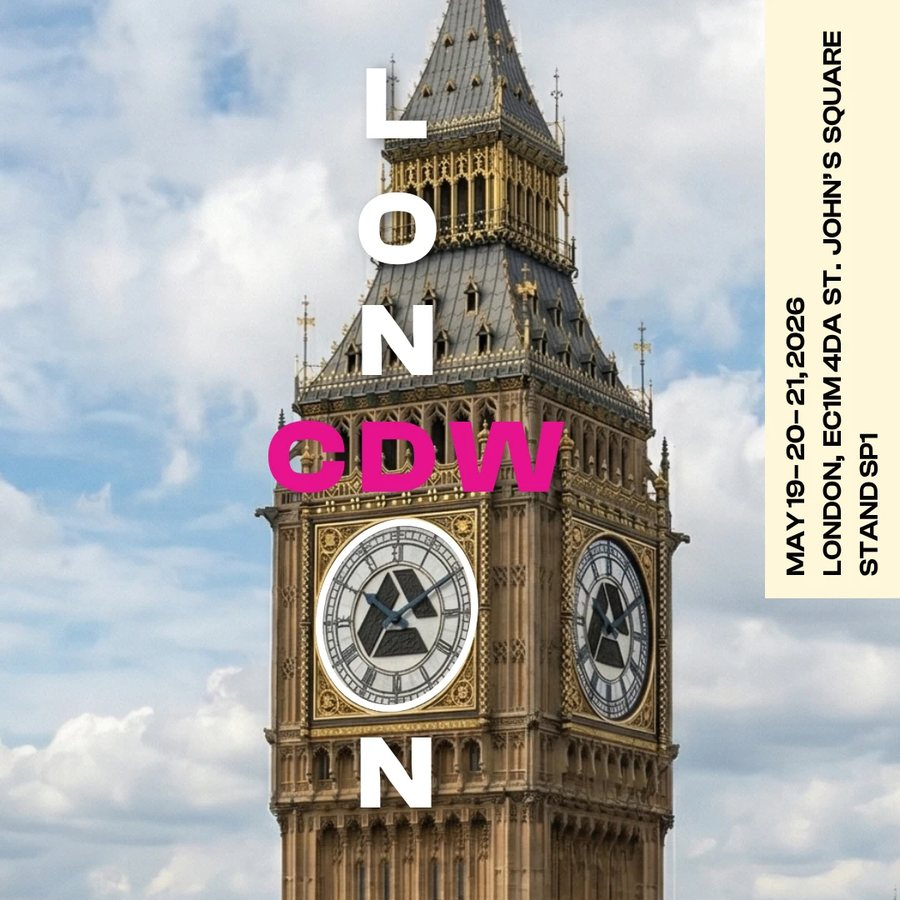
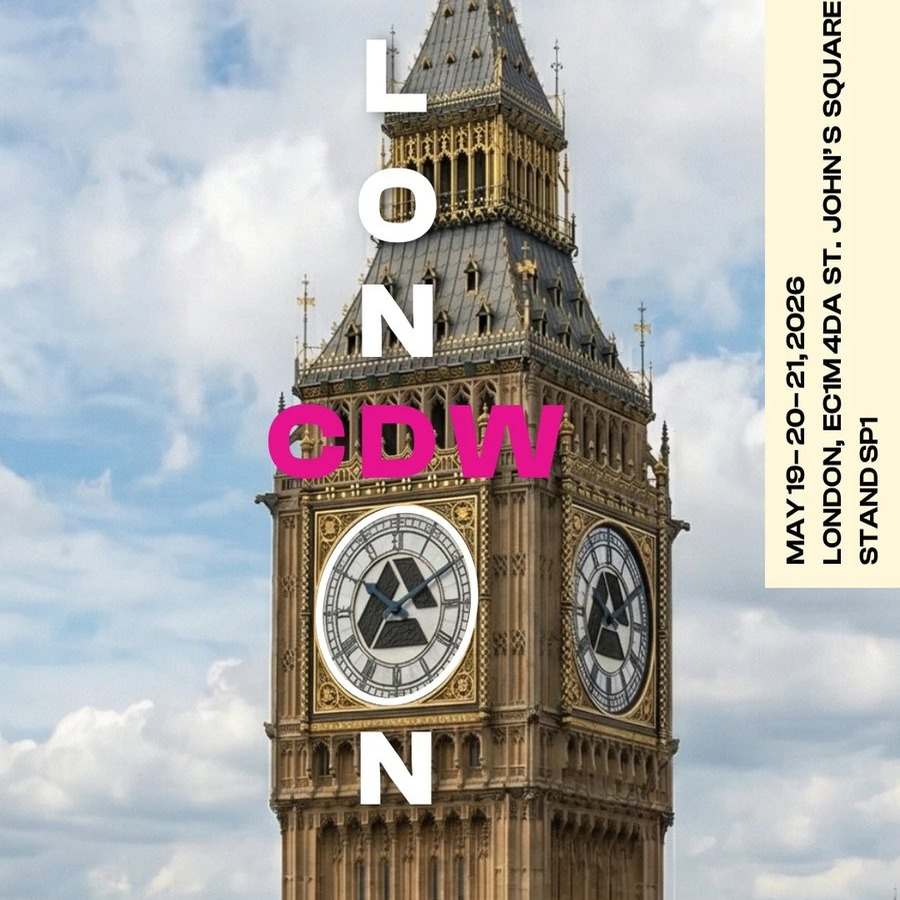
Re-translate Stay Tuned/Last Updates with content-aware sizing, compact the events map, fix London event image
- Stay Tuned and Last Updates headings are translated again, but a
  data-i18n-autofit hook now scales each word's font-size down based on
  how much longer the translation is than the English original, and the
  newsletter heading's container width no longer shrinks proportionally
  with font-size (was ch-based, canceling out the scaling) - translations
  now stay horizontal and wrap to at most two lines in every language
- Wired the previously-untranslated "Discover All the News" button under
  Last Updates
- Event map is now capped at 880px and centered, instead of spanning the
  full content width
- Cropped a blurred top strip baked into the London event image (the only
  one of the three affected) so it renders sharp like Paris and Riyadh

diff --git a/assets/js/i18n.js b/assets/js/i18n.js
@@ -37,7 +37,7 @@ EN: {
 "contract.body":"We work alongside architecture firms, general contractors, and companies on turnkey projects — from space planning to supply and installation, coordinating executive, operative, meeting rooms, and acoustics into a single vision.",
 "cta.discoverProjects":"Discover Our Projects",
 "news.word1":"News","news.word2":"and Events","news.discoverAll":"Discover All the Events",
-"lastUpdates.word1":"Last","lastUpdates.word2":"Updates",
+"lastUpdates.word1":"Last","lastUpdates.word2":"Updates","lastUpdates.discoverAll":"Discover All the News",
 "newsletter.word1":"Stay","newsletter.word2":"Tuned",
 "newsletter.body":"News, collections, and projects from Codutti straight to your inbox.",
 "newsletter.subscribe":"Subscribe to the Newsletter",
@@ -81,7 +81,7 @@ IT: {
 "contract.body":"Lavoriamo al fianco di studi di architettura, general contractor e aziende su progetti chiavi in mano — dalla progettazione degli spazi alla fornitura e installazione, coordinando executive, operative, sale riunioni e acustica in un'unica visione.",
 "cta.discoverProjects":"Scopri i Nostri Progetti",
 "news.word1":"News","news.word2":"ed Eventi","news.discoverAll":"Scopri Tutti gli Eventi",
-"lastUpdates.word1":"Ultimi","lastUpdates.word2":"Aggiornamenti",
+"lastUpdates.word1":"Ultimi","lastUpdates.word2":"Aggiornamenti","lastUpdates.discoverAll":"Scopri Tutte le Novità",
 "newsletter.word1":"Resta","newsletter.word2":"Aggiornato",
 "newsletter.body":"News, collezioni e progetti Codutti direttamente nella tua casella di posta.",
 "newsletter.subscribe":"Iscriviti alla Newsletter",
@@ -125,7 +125,7 @@ FR: {
 "contract.body":"Nous travaillons aux côtés de cabinets d'architecture, d'entreprises générales et de sociétés sur des projets clés en main — de la planification des espaces à la fourniture et à l'installation, en coordonnant executive, operative, salles de réunion et acoustique en une seule vision.",
 "cta.discoverProjects":"Découvrez Nos Projets",
 "news.word1":"Actualités","news.word2":"et Événements","news.discoverAll":"Découvrir Tous les Événements",
-"lastUpdates.word1":"Dernières","lastUpdates.word2":"Actualités",
+"lastUpdates.word1":"Dernières","lastUpdates.word2":"Actualités","lastUpdates.discoverAll":"Découvrir Toutes les Actualités",
 "newsletter.word1":"Restez","newsletter.word2":"Informé",
 "newsletter.body":"Actualités, collections et projets Codutti directement dans votre boîte mail.",
 "newsletter.subscribe":"S'abonner à la Newsletter",
@@ -169,7 +169,7 @@ DE: {
 "contract.body":"Wir arbeiten gemeinsam mit Architekturbüros, Generalunternehmern und Unternehmen an schlüsselfertigen Projekten — von der Raumplanung über Lieferung und Installation bis zur Koordination von Executive-, Operative-, Besprechungs- und Akustikbereichen in einer einzigen Vision.",
 "cta.discoverProjects":"Entdecken Sie Unsere Projekte",
 "news.word1":"Neuigkeiten","news.word2":"und Veranstaltungen","news.discoverAll":"Alle Veranstaltungen Ansehen",
-"lastUpdates.word1":"Neueste","lastUpdates.word2":"Beiträge",
+"lastUpdates.word1":"Neueste","lastUpdates.word2":"Beiträge","lastUpdates.discoverAll":"Alle Neuigkeiten Ansehen",
 "newsletter.word1":"Bleiben","newsletter.word2":"Sie Informiert",
 "newsletter.body":"Neuigkeiten, Kollektionen und Projekte von Codutti direkt in Ihr Postfach.",
 "newsletter.subscribe":"Newsletter Abonnieren",
@@ -213,7 +213,7 @@ SP: {
 "contract.body":"Trabajamos junto a estudios de arquitectura, contratistas generales y empresas en proyectos llave en mano — desde la planificación de espacios hasta el suministro e instalación, coordinando executive, operative, salas de reuniones y acústica en una sola visión.",
 "cta.discoverProjects":"Descubre Nuestros Proyectos",
 "news.word1":"Noticias","news.word2":"y Eventos","news.discoverAll":"Descubre Todos los Eventos",
-"lastUpdates.word1":"Últimas","lastUpdates.word2":"Novedades",
+"lastUpdates.word1":"Últimas","lastUpdates.word2":"Novedades","lastUpdates.discoverAll":"Descubre Todas las Novedades",
 "newsletter.word1":"Mantente","newsletter.word2":"Informado",
 "newsletter.body":"Noticias, colecciones y proyectos de Codutti directamente en tu correo.",
 "newsletter.subscribe":"Suscribirse al Newsletter",
@@ -257,7 +257,7 @@ RU: {
 "contract.body":"Мы работаем совместно с архитектурными бюро, генеральными подрядчиками и компаниями над проектами «под ключ» — от планировки пространства до поставки и монтажа, объединяя решения Executive, Operative, переговорные зоны и акустику в единую концепцию.",
 "cta.discoverProjects":"Узнать о Наших Проектах",
 "news.word1":"Новости","news.word2":"и события","news.discoverAll":"Смотреть Все События",
-"lastUpdates.word1":"Последние","lastUpdates.word2":"Новости",
+"lastUpdates.word1":"Последние","lastUpdates.word2":"Новости","lastUpdates.discoverAll":"Смотреть Все Новости",
 "newsletter.word1":"Будьте","newsletter.word2":"в Курсе",
 "newsletter.body":"Новости, коллекции и проекты Codutti прямо в вашей почте.",
 "newsletter.subscribe":"Подписаться на Рассылку",
@@ -301,7 +301,7 @@ AR: {
 "contract.body":"نعمل جنبًا إلى جنب مع مكاتب الهندسة المعمارية والمقاولين العامين والشركات في مشاريع متكاملة التسليم — من تخطيط المساحات إلى التوريد والتركيب، مع تنسيق حلول Executive وOperative وقاعات الاجتماعات والصوتيات ضمن رؤية واحدة موحدة.",
 "cta.discoverProjects":"اكتشف مشاريعنا",
 "news.word1":"الأخبار","news.word2":"والفعاليات","news.discoverAll":"اكتشف جميع الفعاليات",
-"lastUpdates.word1":"آخر","lastUpdates.word2":"التحديثات",
+"lastUpdates.word1":"آخر","lastUpdates.word2":"التحديثات","lastUpdates.discoverAll":"اكتشف جميع الأخبار",
 "newsletter.word1":"ابقَ","newsletter.word2":"على اطلاع",
 "newsletter.body":"أحدث الأخبار والمجموعات ومشاريع Codutti مباشرة إلى بريدك الإلكتروني.",
 "newsletter.subscribe":"اشترك في النشرة الإخبارية",
@@ -345,7 +345,7 @@ CH: {
 "contract.body":"我们与建筑设计公司、总承包商及企业携手合作,承接交钥匙项目——从空间规划到供货与安装,将行政、运营、会议室与声学方案协调统一为一体化愿景。",
 "cta.discoverProjects":"探索我们的项目",
 "news.word1":"新闻","news.word2":"与活动","news.discoverAll":"查看所有活动",
-"lastUpdates.word1":"最新","lastUpdates.word2":"动态",
+"lastUpdates.word1":"最新","lastUpdates.word2":"动态","lastUpdates.discoverAll":"查看所有新闻",
 "newsletter.word1":"保持","newsletter.word2":"关注",
 "newsletter.body":"Codutti 的最新消息、系列与项目,直接送达您的邮箱。",
 "newsletter.subscribe":"订阅新闻通讯",
@@ -389,7 +389,7 @@ JP: {
 "contract.body":"私たちは建築事務所、ゼネコン、企業とともにターンキープロジェクトに取り組んでいます——スペースプランニングから納品、設置に至るまで、エグゼクティブ、オペレーティブ、会議室、音響を一つのビジョンへと統合します。",
 "cta.discoverProjects":"私たちのプロジェクトを見る",
 "news.word1":"ニュース","news.word2":"&イベント","news.discoverAll":"すべてのイベントを見る",
-"lastUpdates.word1":"最新","lastUpdates.word2":"アップデート",
+"lastUpdates.word1":"最新","lastUpdates.word2":"アップデート","lastUpdates.discoverAll":"すべてのニュースを見る",
 "newsletter.word1":"最新情報を","newsletter.word2":"お届けします",
 "newsletter.body":"Coduttiのニュース、コレクション、プロジェクト情報をメールでお届けします。",
 "newsletter.subscribe":"ニュースレターを購読する",
@@ -430,6 +430,27 @@ function applyLanguage(code) {
   document.querySelectorAll("[data-i18n-aria]").forEach((el) => {
     const value = dict[el.dataset.i18nAria];
     if (value !== undefined) el.setAttribute("aria-label", value);
+  });
+
+  /* Some short headings (Stay Tuned, Last Updates) stay translated, so a
+     longer translation needs to shrink to stay on at most two horizontal
+     lines instead of wrapping mid-word into a tall vertical stack. Scale
+     font-size down from the CSS-computed baseline in proportion to how
+     many more characters the translation has than the English original
+     (data-i18n-autofit holds that English character count). */
+  document.querySelectorAll("[data-i18n-autofit]").forEach((el) => {
+    el.style.fontSize = "";
+  });
+  requestAnimationFrame(() => {
+    document.querySelectorAll("[data-i18n-autofit]").forEach((el) => {
+      const baseLen = Number(el.dataset.i18nAutofit) || el.textContent.length;
+      const curLen = el.textContent.length;
+      if (curLen > baseLen) {
+        const computedSize = parseFloat(getComputedStyle(el).fontSize);
+        const scale = Math.max(0.4, baseLen / curLen);
+        el.style.fontSize = (computedSize * scale) + "px";
+      }
+    });
   });
 
   try { localStorage.setItem("codutti_lang", code); } catch (e) {}

diff --git a/index.html b/index.html
@@ -363,7 +363,7 @@
       </div>
 
       <div class="news-updates reveal">
-        <h2 class="section-title mix-title"><span class="lg">Last</span> <span class="lg">Updates</span></h2>
+        <h2 class="section-title mix-title"><span class="lg" data-i18n="lastUpdates.word1" data-i18n-autofit="4">Last</span> <span class="lg" data-i18n="lastUpdates.word2" data-i18n-autofit="7">Updates</span></h2>
         <div class="news-updates__grid">
           <div class="update-card" style="background-image:url('assets/img/photos/last-update-closure.jpg')">
             <div class="update-card__content">
@@ -403,7 +403,7 @@
           </div>
         </div>
         <div class="news-updates__actions">
-          <a href="news.html" class="btn btn--solid">Discover All the News</a>
+          <a href="news.html" class="btn btn--solid" data-i18n="lastUpdates.discoverAll">Discover All the News</a>
         </div>
       </div>
     </div>
@@ -413,7 +413,7 @@
   <section class="wrap" style="padding-block: clamp(40px,6vw,60px) clamp(60px,8vw,100px)">
     <div class="newsletter reveal">
       <div>
-        <h2 class="mix-title"><span class="lg">Stay</span> <span class="lg">Tuned</span></h2>
+        <h2 class="mix-title"><span class="lg" data-i18n="newsletter.word1" data-i18n-autofit="4">Stay</span> <span class="lg" data-i18n="newsletter.word2" data-i18n-autofit="5">Tuned</span></h2>
         <p data-i18n="newsletter.body">News, collections, and projects from Codutti straight to your inbox.</p>
       </div>
       <form class="newsletter-form" onsubmit="return false;">

diff --git a/assets/css/style.css b/assets/css/style.css
@@ -1094,6 +1094,8 @@ p.vs-body {
 
 .event-map {
   margin-top: clamp(32px, 5vw, 48px);
+  max-width: 880px;
+  margin-inline: auto;
   background: var(--cream);
 }
 .event-map__svg {
@@ -1189,7 +1191,7 @@ p.vs-body {
   align-items: center;
   gap: 28px;
 }
-.newsletter h2 { color: var(--white); max-width: 12ch; }
+.newsletter h2 { color: var(--white); max-width: 560px; }
 .newsletter p { color: var(--white); font-family: var(--font-body); max-width: 34ch; margin-top: 10px; }
 .newsletter-form {
   display: flex;
